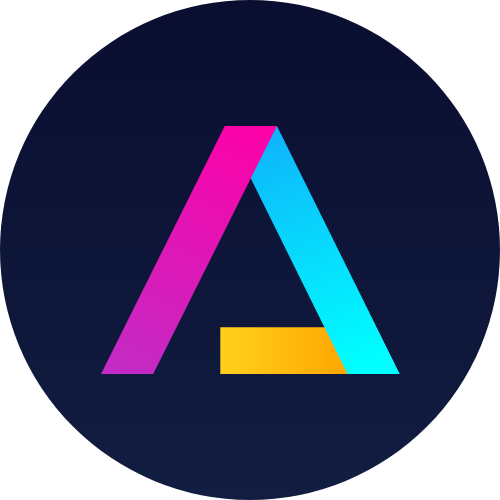
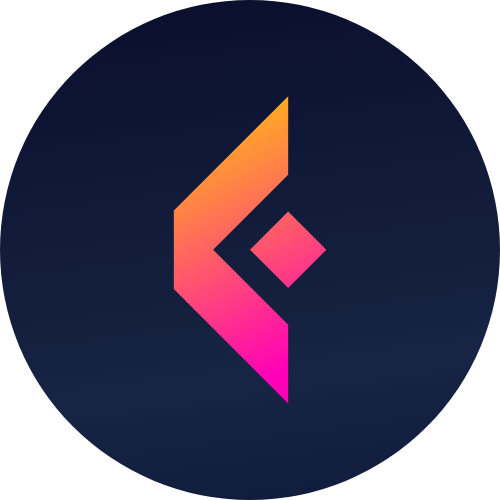
Ecko rebranding

Changed region(s): [[0.21, 0.18, 0.81, 0.81]]

diff --git a/src/images/index.tsx b/src/images/index.tsx
@@ -14,7 +14,6 @@ import received from './received-white.svg';
 import send from './send.svg';
 import trash from './trash.png';
 import violetInfo from './violet-info.svg';
-import logoName from './logo-name.svg';
 import trashPink from './trash-pink.png';
 import view from './view.svg';
 import arrowRight from './arrow-right.png';
@@ -100,9 +99,7 @@ import checkedV from './checked-v.svg';
 import violetAdd from './violet-add.svg';
 import trashViolet from './trash-violet.svg';
 import kdaIcon from './kda-icons.svg';
-import logoWallet from './logo-wallet.svg';
 import iconSend from './arrow-down.svg';
-import logoWalletKadena from './logo-wallet-kaden.svg';
 import iconKadenaToken from './icon-kadena-token.svg';
 import iconUnknownKadenaToken from './unknown_token.svg';
 import iconHome from './icon-home.svg';
@@ -188,7 +185,6 @@ const wallet = {
   checkedV,
   kdaIcon,
   iconSend,
-  logoWalletKadena,
   iconKadenaToken,
   iconUnknownKadenaToken,
   iconMorePurple,
@@ -317,7 +313,6 @@ const analytics = {
 };
 const images = {
   wallet,
-  logoName,
   initPage,
   generateAccount,
   transfer,
@@ -335,7 +330,6 @@ const images = {
   toast,
   search,
   settingWhite,
-  logoWallet,
   iconHome,
   iconHistory,
   iconHistoryActive,
